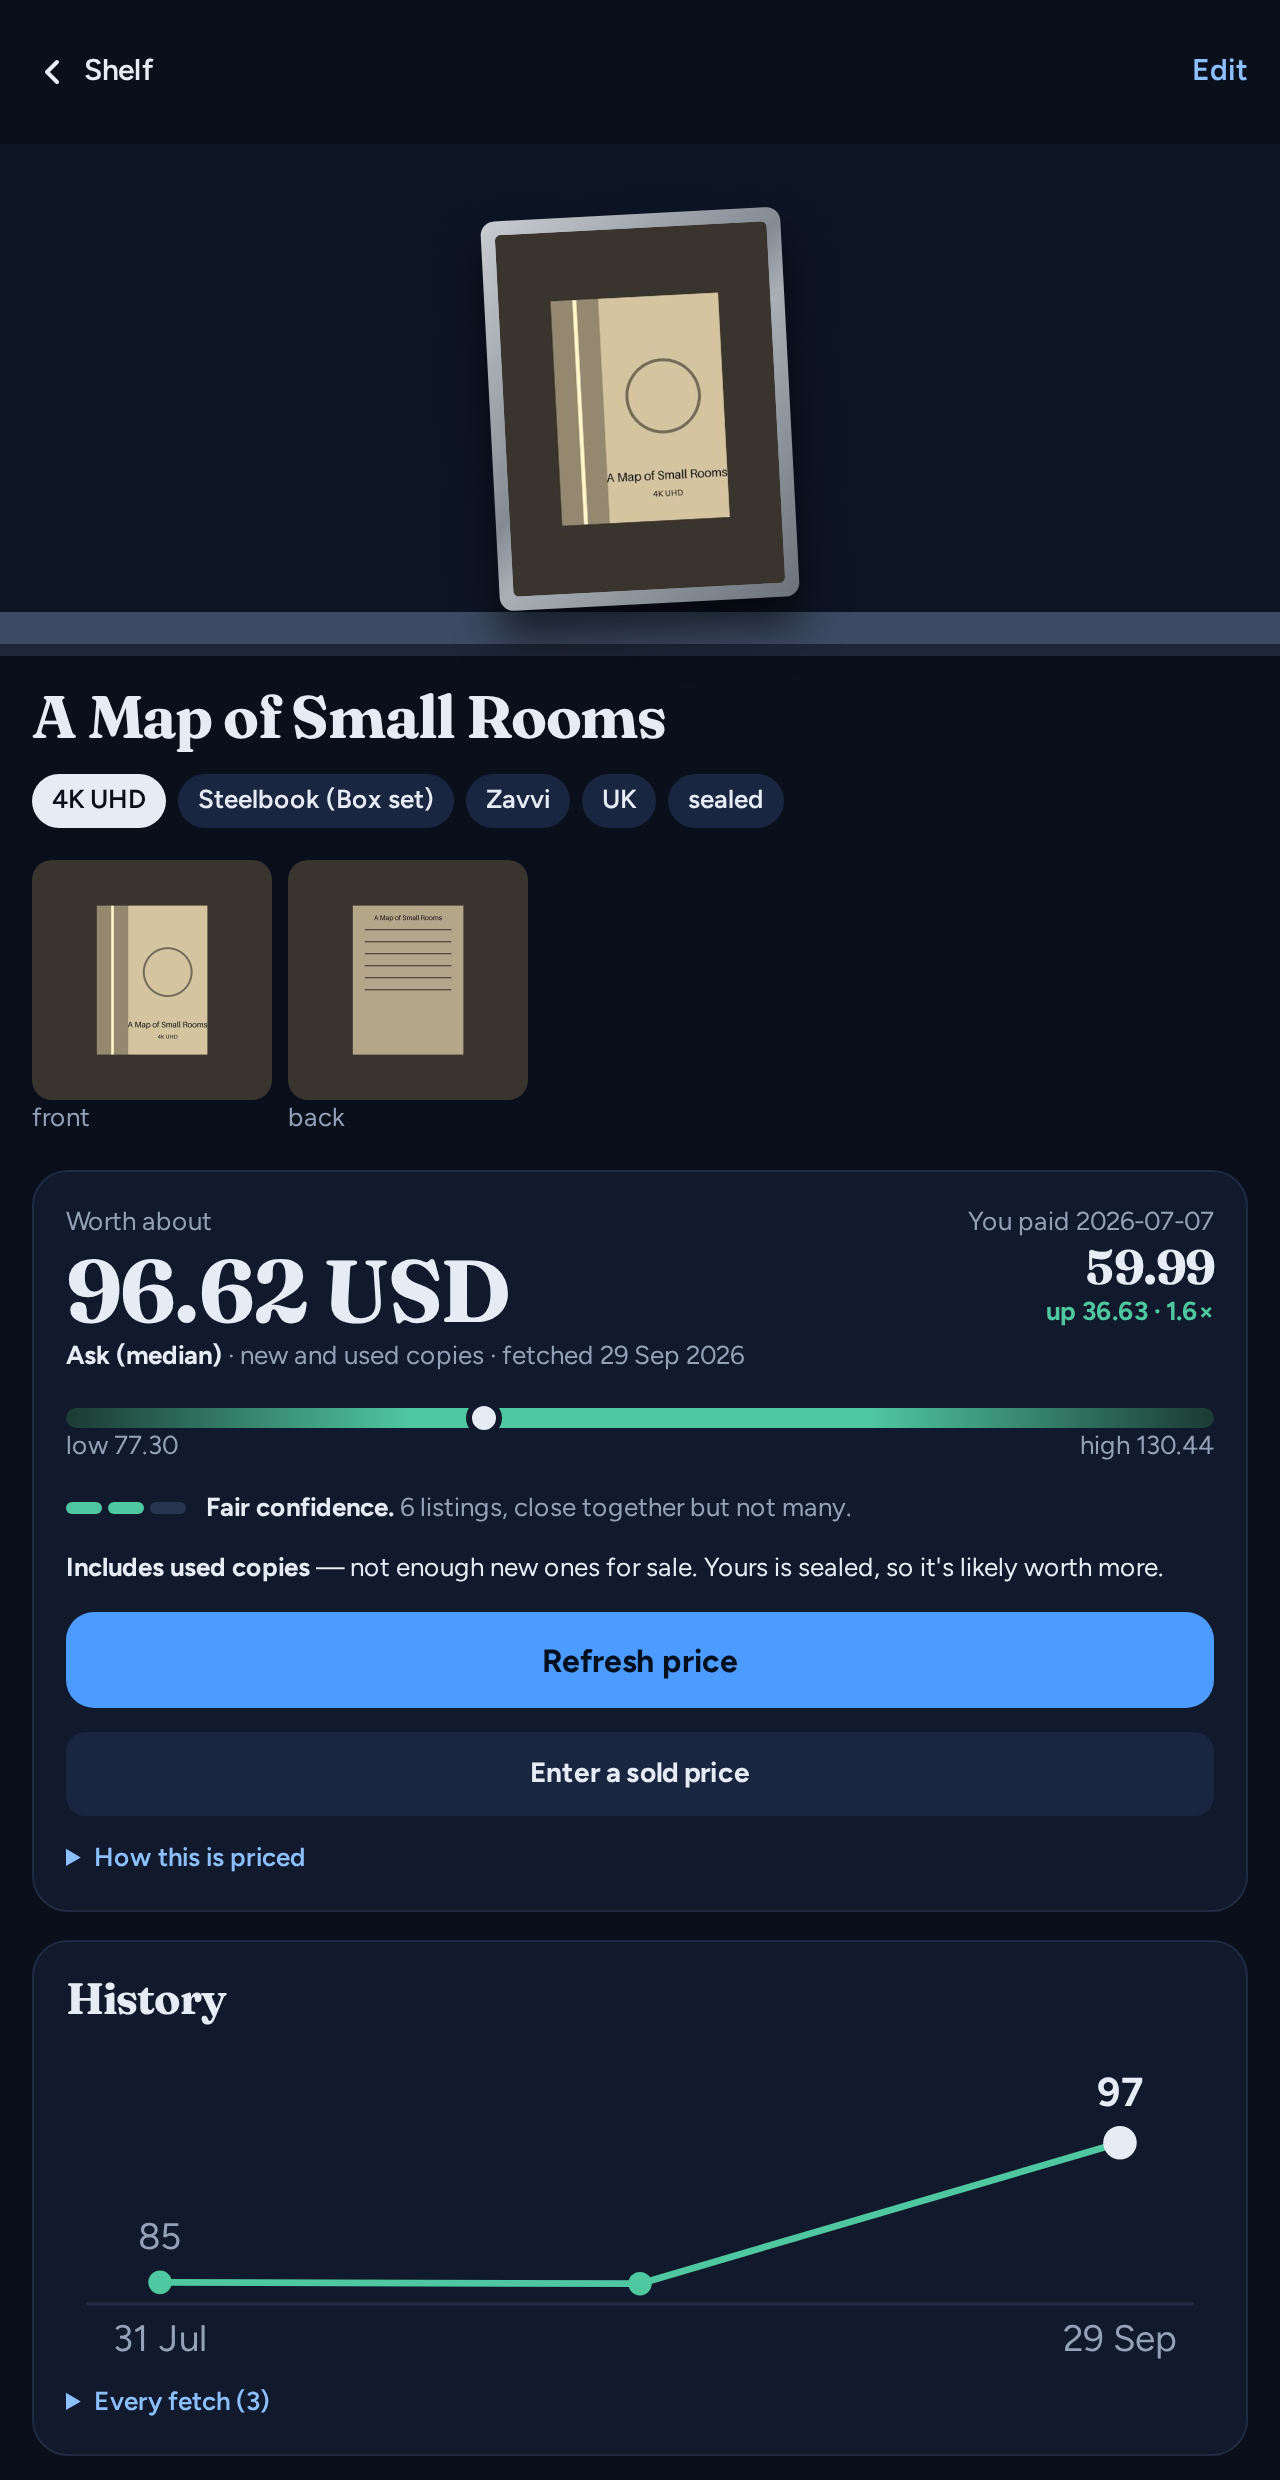
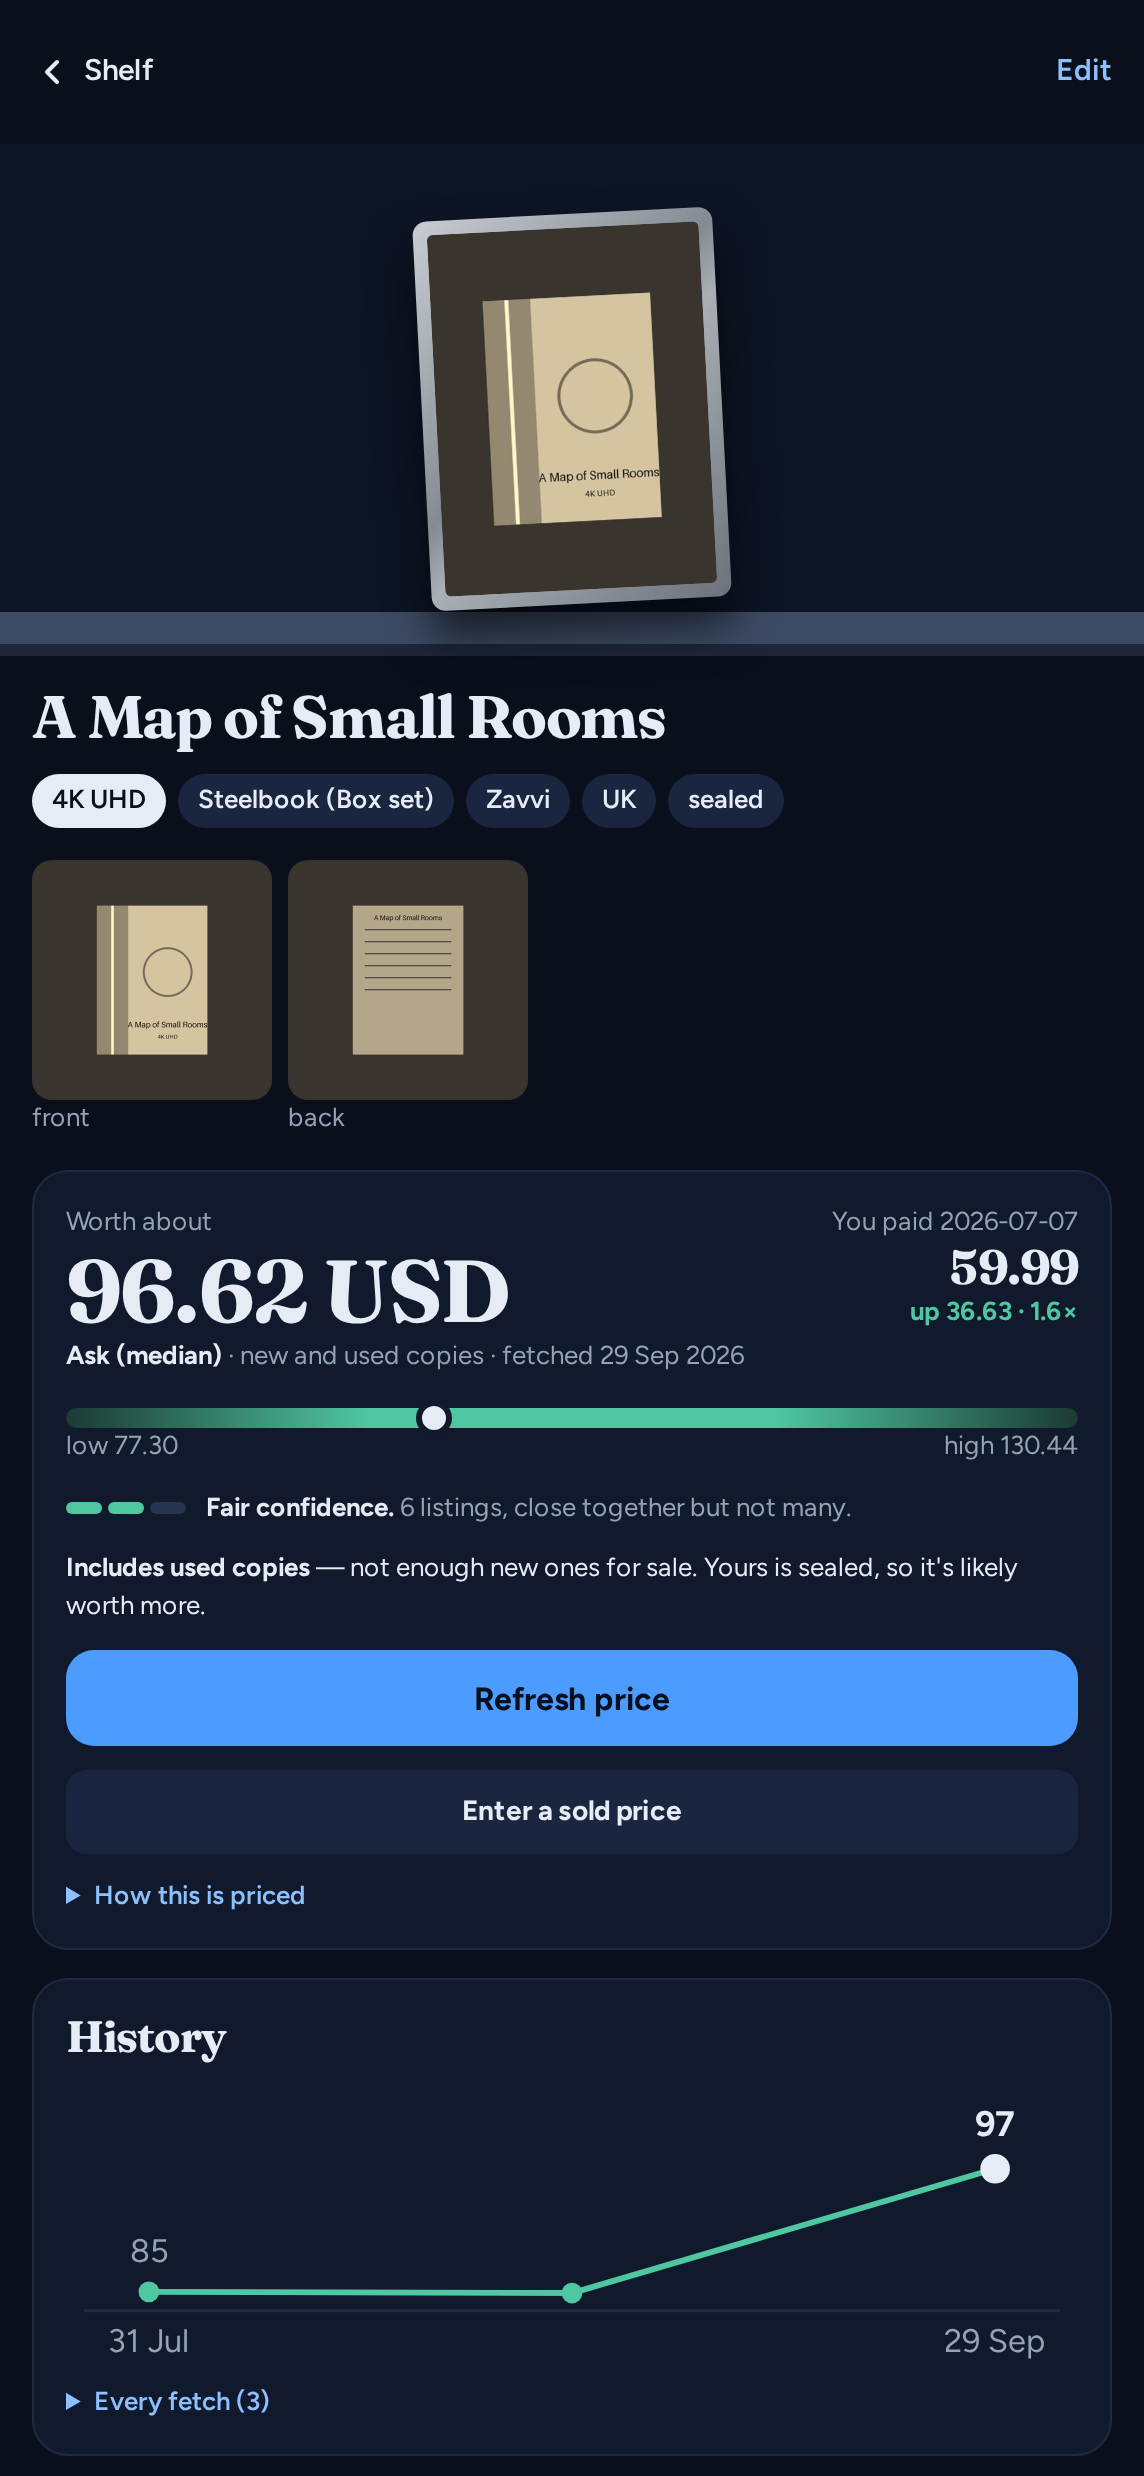
chore: README screenshots are a two-by-two grid that holds at any width
The rows were pixel widths summing to 810, so a narrower column dropped
the second shot under the first. Widths are percentages now, the shelf
and the item page are retaken to the shapes of the stats page and the
phone shot, and both rows split at the same place.

diff --git a/scripts/shots.py b/scripts/shots.py
@@ -15,8 +15,10 @@ called. That shot is composed: the front photo that was sent sits beside the
 form, and the form's Photos fieldset is hidden to keep the doubts and the
 filled fields in frame.
 
-The README sets each image's width so a row's two shots render at one height;
-a shot whose size changes here needs its width there worked out again.
+The README lays the four page shots out as a grid, a wide one and a tall one to
+a row, at percentage widths so a row never wraps. That holds only while the two
+wide shots share one shape and the two tall ones another: change a size in
+`SHOTS` and its partner has to follow, or the rows stop matching.
 """
 
 import argparse
@@ -45,9 +47,9 @@ ITEM = "A Map of Small Rooms"  # the most valuable: a box set with a few fetches
 
 # name: path, viewport width and height in CSS px, device scale
 SHOTS = {
-    "shelf": ("/?sort=format", 1280, 1020, 1),
+    "shelf": ("/?sort=format", 1132, 1020, 1),
     "phone": ("/", 390, 844, 2),
-    "item": ("/items/{item}", 640, 1240, 2),
+    "item": ("/items/{item}", 572, 1238, 2),
     "stats": ("/stats", 960, 865, 1),
 }
 

diff --git a/README.md b/README.md
@@ -15,12 +15,12 @@ SQLite, one Docker container, no CDN.
 [Documentation](#documentation) · [Development](#development)
 
 <p>
-  <img alt="The shelf on a desktop, sorted by format: twenty steelbook spines on three labelled planks, value tiles above, the most valuable and the shelf's value over time beside" src="docs/img/shelf.png" width="592">
-  <img alt="The shelf on a phone" src="docs/img/phone.png" width="218">
+  <img alt="The shelf on a desktop, sorted by format: twenty steelbook spines on three labelled planks, value tiles above, the most valuable and the shelf's value over time beside" src="docs/img/shelf.png" width="69.4%">
+  <img alt="The shelf on a phone" src="docs/img/phone.png" width="28.9%">
 </p>
 <p>
-  <img alt="An item page: the case, its photos, what it is worth against what was paid, and its price history" src="docs/img/item.png" width="257">
-  <img alt="The stats page: value by retailer, sold prices against asks, how sure the prices are, format, region and condition" src="docs/img/stats.png" width="553">
+  <img alt="The stats page: value by retailer, sold prices against asks, how sure the prices are, format, region and condition" src="docs/img/stats.png" width="69.4%">
+  <img alt="An item page on a phone: the case, its photos, what it is worth against what was paid, and its price history" src="docs/img/item.png" width="28.9%">
 </p>
 
 Every screenshot is the demo shelf (`scripts/demo.py`): invented titles and
